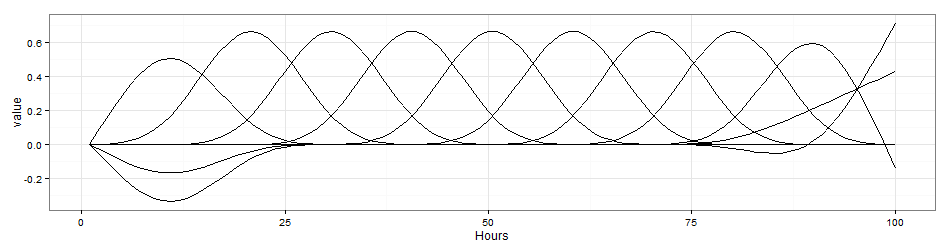
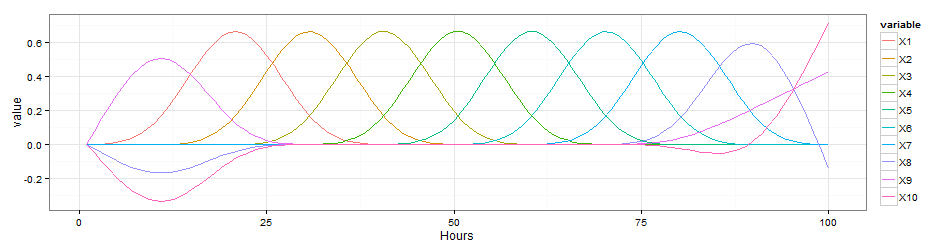
added one more image about spline

diff --git a/_posts/2014-09-13-Retargeting.md b/_posts/2014-09-13-Retargeting.md
@@ -24,13 +24,16 @@ The answer to the above question comes from the data.  The ultimate goal is to g
 
 <IMG align="center" src="/images/Retargeting_default.png" />
 
-If we plot the observed probability of purchasing at each time point after the starting pixel, it is more likely that we get to observe something like the following. 
+If we plot the observed probability of purchasing at each time point after the starting pixel, we are more likely to observe something like the following. 
 
 <IMG align="center" src="/images/Retargeting_predictT.png" />
+<figcaption>Fig 2</figcaption>
 
 The proposed method is to expand the one dimensional time variable into a high dimensional non-parametric space.  The high dimension allows us to make the best of the often limited purchase cases that only happened to a small group of consumers.  Instead of guessing the pattern explicitly, increased volume in information allows using the computing resources to train the model and find out the most representative patterns.  This 'information expansion' is achieved by extending the linear space in to a Reproducing Kernel Hilbert Space (RKHS).  The real-valued funcitons inside RKHS is defined on a pre-defined domain, which, in cases of retargeting, is a bounded finite subset of real numbers.  To find a finite representative basis of the RKHS, we resort to penalty terms.  Fortunately, regularization theorems works nicely with RKHS.
 
+The above Figure 2 used 10-Order Sobolev space basis. 
 
+<IMG align="center" src="/images/Retargeting_ns.png" />
 
 
 The sketchy outline is laid out, the details needs to be fill in.  Two decisions need to be made before we can get a reasonably good representation of the purchase cycle, 
